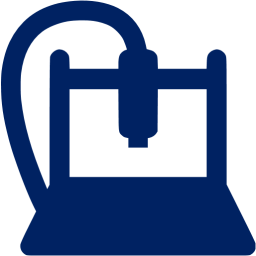
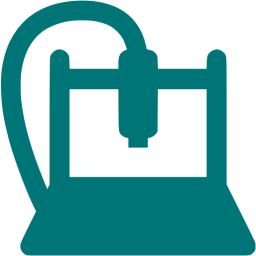
CuttingProcessView UI improvement

diff --git a/src/main/java/meshIneBits/gui/view3d/view/CuttingProcessView.java b/src/main/java/meshIneBits/gui/view3d/view/CuttingProcessView.java
@@ -22,12 +22,18 @@ import processing.core.PShape;
 
 public class CuttingProcessView extends UIParameterWindow {
 
-  private static final Color rect1_color = new Color(210, 204, 204);
-  private static final Color rect2_color = new Color(0, 35, 94);
+  public static final String cutting_machine_icon = "resources/cutting-machine-icon.png";
+  public static final String cutting_machine_photo = "resources/cutting-machine-photo.png";
+  private static final Color rect1_color = new Color(49, 51, 48);
+  private static final Color rect2_color = new Color(79, 79, 75);
+  private static final Color button_color = new Color(10, 115, 119);
+  private static final Color button_color_on_mouse = new Color(14, 156, 161);
   private static final Color in_process_state = new Color(0, 255, 0);
   private static final Color out_process_state = new Color(253, 186, 33);
+  private static final Color font_color = new Color(253, 186, 33);
   private static Dimension SCREEN_SIZE = Toolkit.getDefaultToolkit().getScreenSize();
-  private PImage image;
+  private PImage icon;
+  private PImage machinePhoto;
 
 
   public static void main(String[] args) {
@@ -55,9 +61,9 @@ public class CuttingProcessView extends UIParameterWindow {
 
   private void initComponentPositions() {
     float[] startPosition = new float[]
-        {0.05f * width - (float) startButton.getWidth() / 2, 0.4f * height};
+        {0.01f * width, 0.4f * height};
     float[] pausePosition = new float[]
-        {0.2f * width - (float) stopButton.getWidth() / 2, 0.4f * height};
+        {0.01f * width, 0.47f * height};
     startButton.setPosition(startPosition);
     stopButton.setPosition(pausePosition);
     bitId.setPosition(0.30f * width, 0.70f * height);
@@ -94,57 +100,64 @@ public class CuttingProcessView extends UIParameterWindow {
     rect1Background.setFill(rect1_color.getRGB());
     rect2Background = createShape(RECT, (float) width / 4, 0, width - (float) width / 4, height);
     rect2Background.setFill(rect2_color.getRGB());
-    image = loadImage("resources/cutting-machine-icon.png");
-    image.resize(100, 100);
+    icon = loadImage(cutting_machine_icon);
+    icon.resize(100, 100);
+
+    machinePhoto = loadImage(cutting_machine_photo);
+    machinePhoto.resize(400, 300);
 
     int component_label_color = 255;
+    int sizeFont = 15;
     PFont text_font_default = createFont("arial bold", 14);
 
-    circleState = createShape(ELLIPSE, (float) width / 8, 0.55f * height, 50, 50);
+    circleState = createShape(ELLIPSE, (float) width / 8, 0.6f * height, 50, 50);
     circleState.setFill(out_process_state.getRGB());
 
     startButton = getControl().
         addButton(START_CUTTING_MACHINE)
         .setLabel("Start")
-        .setSize(70, 30)
+        .setSize((int) (width / 4 - 2 * 0.01f * width), 30)
         .setColorLabel(component_label_color)
+        .setColorBackground(button_color.getRGB())
+        .setColorForeground(button_color_on_mouse.getRGB())
         .setFont(text_font_default);
     stopButton = getControl().
         addButton(STOP_CUTTING_MACHINE)
         .setLabel("Stop")
-        .setSize(70, 30)
+        .setSize((int) (width / 4 - 2 * 0.01f * width), 30)
         .setColorLabel(component_label_color)
+        .setColorBackground(button_color.getRGB())
+        .setColorForeground(button_color_on_mouse.getRGB())
         .setFont(text_font_default);
 
     bitId = getControl()
         .addTextlabel(BIT_ID_LABEL)
         .setText("Identifier of Bit: N/A")
-        .setColor(component_label_color)
-        .setFont(createFont("arial bold", 20));
+        .setColor(font_color.getRGB())
+        .setFont(createFont("arial bold", sizeFont));
     nbSubBit = getControl()
         .addTextlabel(NUMBER_SUB_BIT_LABEL)
         .setText("Number of sub bit: N/A")
-        .setColor(component_label_color)
-        .setFont(createFont("arial bold", 20));
+        .setColor(font_color.getRGB())
+        .setFont(createFont("arial bold", sizeFont));
     layerId = getControl()
         .addTextlabel(LAYER_ID_LABEL)
         .setText("Layer ID: N/A")
-        .setColor(component_label_color)
-        .setFont(createFont("arial bold", 20));
+        .setColor(font_color.getRGB())
+        .setFont(createFont("arial bold", sizeFont));
     position = getControl()
         .addTextlabel(POSITION_BIT_LABEL)
         .setText("Position of Bit: N/A")
-        .setColor(component_label_color)
-        .setFont(createFont("arial bold", 20));
+        .setColor(font_color.getRGB())
+        .setFont(createFont("arial bold", sizeFont));
     initComponentPositions();
   }
 
   public void setShape(PShape shape) {
     shapeBit = shape;
     shape.resetMatrix();
-    shapeBit.scale(3);
-    shapeBit.translate((float) width / 4 + 50, (float) height / 6);
-
+    shapeBit.scale(3.5f);
+    shapeBit.translate((float) width / 4 + 20, (float) height / 4);
   }
 
   @Override
@@ -164,14 +177,15 @@ public class CuttingProcessView extends UIParameterWindow {
   protected void updateButton() {
     shape(rect1Background);
     shape(rect2Background);
-    image(image, 50, 50);
-    if (shapeBit != null) {
-      shape(shapeBit);
-    }
-    if (processor.isInProcess()) {
-      circleState.setFill(in_process_state.getRGB());
-    } else {
+    image(icon, 50, 50);
+    if (!processor.isInProcess()) {
+      image(machinePhoto, (float) width / 4 + 100, 50);
       circleState.setFill(out_process_state.getRGB());
+    } else {
+      circleState.setFill(in_process_state.getRGB());
+      if (shapeBit != null) {
+        shape(shapeBit);
+      }
     }
     shape(circleState);
   }

diff --git a/src/main/java/meshIneBits/gui/view3d/Visualization3DConfig.java b/src/main/java/meshIneBits/gui/view3d/Visualization3DConfig.java
@@ -17,27 +17,27 @@ public class Visualization3DConfig {
   public static final String VISUALIZATION_3D_WINDOW_TITLE = "MeshIneBits - Model view";
   public static final int V3D_WINDOW_WIDTH = SCREEN_SIZE.width * 3 / 5;
   public static final int V3D_WINDOW_HEIGHT = SCREEN_SIZE.height;
-  public static final int V3D_WINDOW_LOCATION_X = SCREEN_SIZE.width/5;
+  public static final int V3D_WINDOW_LOCATION_X = SCREEN_SIZE.width / 5;
   public static final int V3D_WINDOW_LOCATION_Y = 0;
   public static final Vec V3D_EYE_POSITION = new Vec(0, 1, 1);
   public static final int V3D_RADIUS = 2500;
   public static final int V3D_FRAMERATE = 60;
   public static final Color V3D_BACKGROUND = new Color(150, 150, 150);
-  public static final Color V3D_AMBIENT_LIGHT= new Color(255, 255, 255);
+  public static final Color V3D_AMBIENT_LIGHT = new Color(255, 255, 255);
 
   //AssemblingProcessView config
   public static final String ASSEMBLING_PROCESS_VIEW_TITLE = "MeshIneBits - Model view";
   public static final int ASSEMBLING_PROCESS_VIEW_WIDTH = SCREEN_SIZE.width * 3 / 5;
   public static final int ASSEMBLING_PROCESS_VIEW_HEIGHT = SCREEN_SIZE.height;
-  public static final int ASSEMBLING_PROCESS_VIEW_LOCATION_X = SCREEN_SIZE.width/5;
+  public static final int ASSEMBLING_PROCESS_VIEW_LOCATION_X = SCREEN_SIZE.width / 5;
   public static final int ASSEMBLING_PROCESS_VIEW_LOCATION_Y = 0;
 
   //UI parameter window config
   public static final int UIP_WINDOW_WIDTH = SCREEN_SIZE.width / 5;
   public static final int UIP_WINDOW_HEIGHT = SCREEN_SIZE.height;
   public static final int UIPW_FRAMERATE = 24;
-  public static final Point UIPW_ANIMATION = new Point(SCREEN_SIZE.width-UIP_WINDOW_WIDTH,0);
-  public static final Point UIPW_VIEW = new Point(0,0);
+  public static final Point UIPW_ANIMATION = new Point(SCREEN_SIZE.width - UIP_WINDOW_WIDTH, 0);
+  public static final Point UIPW_VIEW = new Point(0, 0);
   public static final Color UIPW_BACKGROUND = new Color(150, 150, 150);
   public static final int EYE_POSITION_Y = 3000;
   public static final int EYE_POSITION_Z = 3000;
@@ -54,7 +54,9 @@ public class Visualization3DConfig {
   //Shape config
   public static final Color MODEL_COLOR = new Color(219, 100, 50);
   public static final Color MESH_COLOR = new Color(112, 66, 20);
-  public static final Color CUTTING_BIT_VIEW = new Color(112, 66, 20);
+  public static final Color CUTTING_BIT_COLOR = new Color(49, 51, 48);
+  public static final Color CUTTING_BIT_STOKE = new Color(231, 231, 18);
+  public static final Color CUT_PATH_COLOR = new Color(218, 0, 0);
 
   public static final float BIT_THICKNESS = (float) CraftConfig.bitThickness;
 
@@ -69,7 +71,6 @@ public class Visualization3DConfig {
 
   //millisecond
   public static final long REFRESH_TIME = 3000;
-
 
 
 }

diff --git a/src/main/java/meshIneBits/gui/view3d/builder/CuttingBitBuilder.java b/src/main/java/meshIneBits/gui/view3d/builder/CuttingBitBuilder.java
@@ -13,6 +13,7 @@ import processing.core.PApplet;
 import processing.core.PShape;
 
 public class CuttingBitBuilder {
+
   private final PApplet context;
 
   public CuttingBitBuilder(PApplet context) {
@@ -25,8 +26,9 @@ public class CuttingBitBuilder {
     PShape shape = context.createShape(GROUP);
 
     PShape shapeBit = context.createShape();
+
     shapeBit.beginShape();
-    shapeBit.fill(Visualization3DConfig.CUTTING_BIT_VIEW.getRGB());
+    shapeBit.fill(Visualization3DConfig.CUTTING_BIT_COLOR.getRGB());
     shapeBit.vertex(0, 0, 0);
     shapeBit.vertex((float) CraftConfig.lengthFull, 0, 0);
     shapeBit.vertex((float) CraftConfig.lengthFull, (float) CraftConfig.bitWidth, 0);
@@ -70,7 +72,7 @@ public class CuttingBitBuilder {
               isFirst = false;
             }
             newCutPath = context.createShape();
-            newCutPath.setStroke(context.color(0, 255, 0));
+            newCutPath.setStroke(context.color(Visualization3DConfig.CUT_PATH_COLOR.getRGB()));
             newCutPath.beginShape();
             newCutPath.vertex(x, y);
             break;
